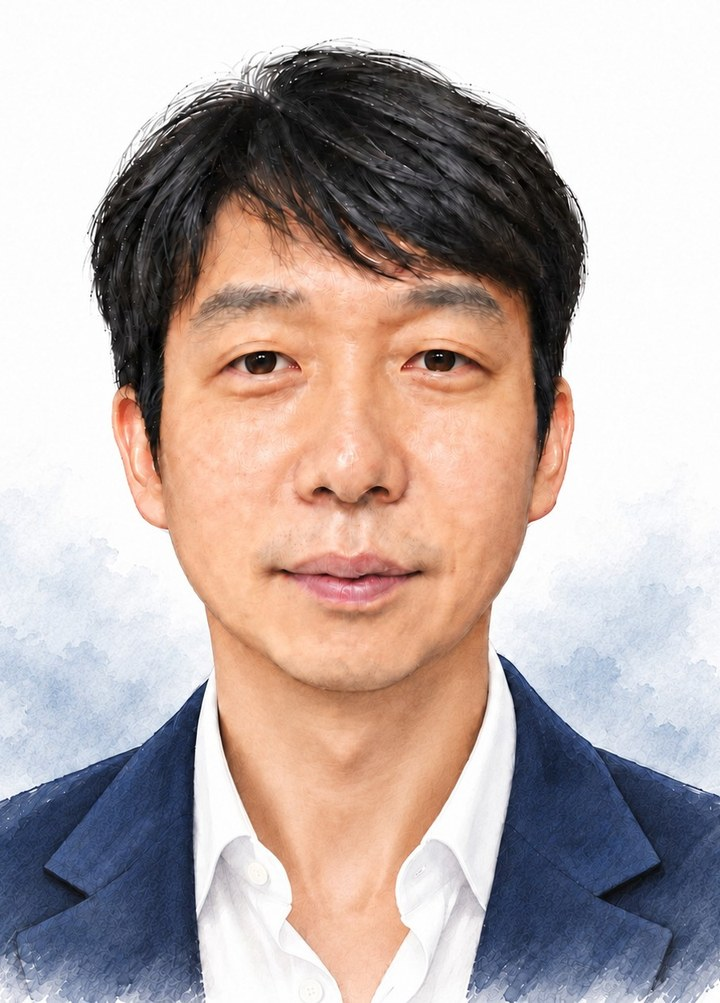
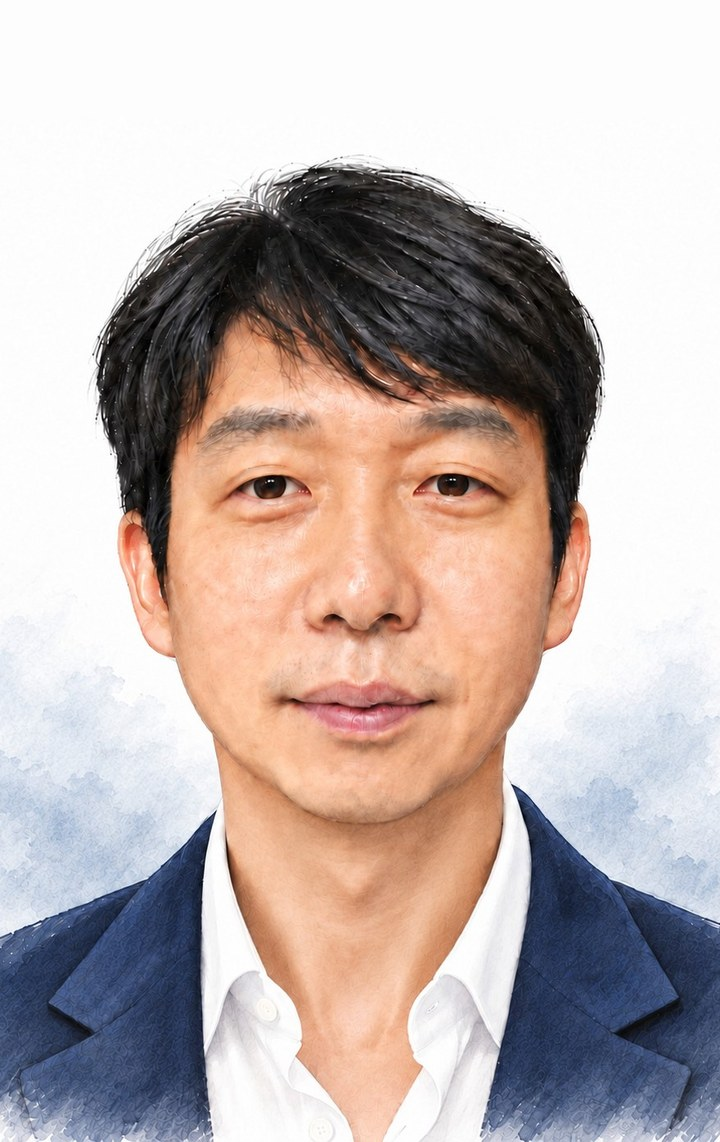
교수 사진 약간 축소(줌 아웃)
- 원본 위쪽 배경을 이어 붙여 보이는 폭을 넓힘(얼굴 약 10% 작게), 캐시 갱신용 ?v=2

diff --git a/index.html b/index.html
@@ -1175,7 +1175,7 @@ footer::before{content:"";position:absolute;inset:0;background-image:radial-grad
       <div class="prof-card reveal">
         <div class="prof-photo">
           <span class="corner c1"></span><span class="corner c2"></span><span class="corner c3"></span><span class="corner c4"></span>
-          <img src="image/sooman_2026.jpg" alt="Professor Sooman Lim" loading="lazy"/>
+          <img src="image/sooman_2026.jpg?v=2" alt="Professor Sooman Lim" loading="lazy"/>
         </div>
         <div class="prof-name">Dr. Sooman Lim</div>
         <div class="prof-role" data-en="Professor" data-ko="교수">Professor</div>
